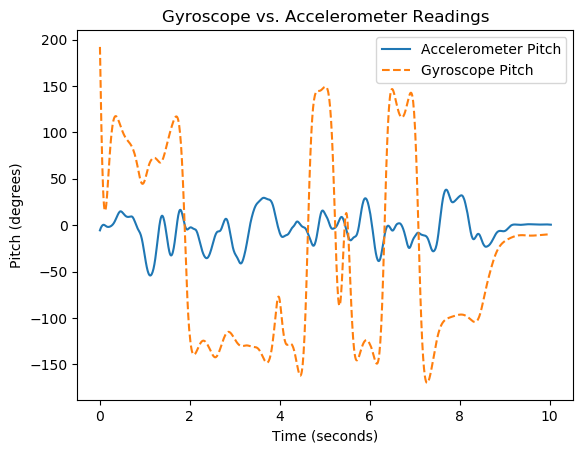
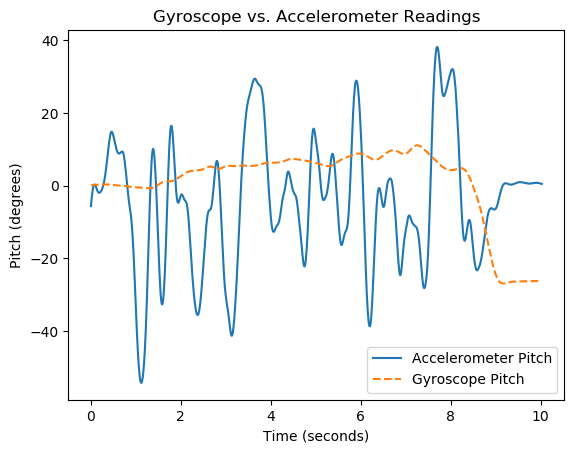
homework

diff --git a/Mechatronics_ME457/HW2/HW2_3.py b/Mechatronics_ME457/HW2/HW2_3.py
@@ -32,30 +32,32 @@ for file_name in os.listdir('.'):
     #                                                                 usecols=(1,38,39,40,41,42,43))
     if file_name.startswith('MondayLab'):
         # Parse the data out and store the variables
-        t_time, acc_x, acc_y, acc_z, gyr_x, gyr_y, gyr_z = np.loadtxt(open(file_name),
+        t_time, acc_x, acc_y, acc_z, gyr_y, gyr_x, gyr_z = np.loadtxt(open(file_name),
                                                                     delimiter=',',
                                                                     skiprows=2,
                                                                     unpack=True,
                                                                     usecols=(1,3,4,5,6,7,8))
 
 # This holds the time since the trial began
-dt_micros = [t_time[k] - t_time[0] for k, v in enumerate(t_time)]
+dt_micros = [(t_time[k] - t_time[0])/1000000 for k, v in enumerate(t_time)]
 # This holds the time since the last reading
 delta_t = [t_time[k+1] - t_time[k] for k, v in enumerate(t_time[:-1])]
 # We need to append a zero to get the same container size
 delta_t = [0] + delta_t
-
 # Generate integration function using simpsons adaptive trapezoidal method from scipy
-gyr_p_xint = lambda a, b : integrate.simps(gyr_x[a:b], dt_micros[a:b])
-gyr_p_zint = lambda a, b : integrate.simps(gyr_z[a:b], dt_micros[a:b])
+gyr_p_xint = lambda a, b : integrate.trapz(gyr_x[a:b])
+gyr_p_zint = lambda a, b : integrate.trapz(gyr_z[a:b])
 
 # Store the cumulative integrals in lists
-gyr_xpts = [gyr_p_xint(0, k+1) for k, v in enumerate(dt_micros)]
-gyr_zpts = [gyr_p_zint(0, k+1) for k, v in enumerate(dt_micros)]
+# gyr_xpts = [gyr_p_xint(0, k+1) for k, v in enumerate(dt_micros)]
+# gyr_zpts = [gyr_p_zint(0, k+1) for k, v in enumerate(dt_micros)]
+
+gyr_xpts = integrate.cumtrapz(gyr_x)
+gyr_zpts = integrate.cumtrapz(gyr_z, dt_micros)
 
 # Calculate the pitch angle from the integral and convert to degrees from radians
-gyr_pitch = [math.atan2(gyr_xpts[k], -gyr_zpts[k])*(180/math.pi) for k, v, in enumerate(dt_micros)]
-
+# gyr_pitch = [math.atan2(gyr_xpts[k], -gyr_zpts[k])*(180/math.pi) for k, v, in enumerate(dt_micros[:-1])]
+gyr_pitch = [i * (180/math.pi) for i in gyr_zpts]
 gyr_pitch = butterworth_filter(gyr_pitch)
 
 # I know I could have written a for loop and saved a couple lines of code at this point but
@@ -64,12 +66,9 @@ acc_pitch = [math.atan2(acc_x[k], -acc_z[k])*(180/math.pi) for k, v, in enumerat
 
 acc_pitch = butterworth_filter(acc_pitch)
 
-# It turns out that time is in microseconds so convert to seconds
-dt_micros = [i/1000000 for i in dt_micros]
-
 # Plot
 plt.plot(dt_micros, acc_pitch,label='Accelerometer Pitch')
-plt.plot(dt_micros, gyr_pitch,'--',label='Gyroscope Pitch')
+plt.plot(dt_micros[:-1], gyr_pitch,'--',label='Gyroscope Pitch')
 plt.title('Gyroscope vs. Accelerometer Readings')
 plt.xlabel('Time (seconds)')
 plt.ylabel('Pitch (degrees)')

diff --git a/Feedback_ME415/HW3.py b/Feedback_ME415/HW3.py
@@ -1,0 +1,42 @@
+#! usr/bin/env python
+
+from scipy import signal
+import numpy as np
+ 
+def prob3_15a():
+    arrA = np.array([[0, 1, 5, 0],[0, 0, 1, 0],[0, 0, 0, 1],[-7, -9, -2, -3]])
+    arrB = np.array([[0],[5],[8],[2]])
+    arrC = np.array([1, 3, 6, 6])
+    arrD = np.array([0])
+
+    sys = signal.StateSpace(arrA, arrB, arrC, arrD).to_tf()
+    print('\n ~~ PROBLEM 3-15a ~~ \n')
+    print(sys.num)
+    print('-'*30)
+    print(sys.den)
+    
+
+def prob3_15b():
+    arrA = np.array([[ 3, 1,  0,  4, -2],
+                     [-3, 5, -5,  2, -1],
+                     [ 0, 1, -1,  2,  8],
+                     [-7, 6, -3, -4,  0],
+                     [-6, 0,  4, -3,  1]])
+    arrB = np.array([[2],
+                     [7],
+                     [8],
+                     [5],
+                     [4]])
+    arrC = np.array([1, -2, -9, 7, 6])
+    arrD = np.array([0])
+
+    sys = signal.StateSpace(arrA, arrB, arrC, arrD).to_tf()
+    print('\n ~~ PROBLEM 3-15b ~~ \n')
+    print(sys.num)
+    print('-'*30)
+    print(sys.den)
+
+prob3_15a()
+
+prob3_15b()
+
